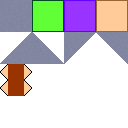
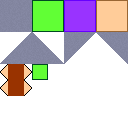
Crouching animation and collision detection added. Still need to prevent standing when it would cause a collision.

Changed region(s): [[0.25, 0.5, 0.375, 0.625]]

diff --git a/src/player.js b/src/player.js
@@ -34,11 +34,17 @@ Crafty.c("Player", {
 			.reel("PlayerFallRight", 1000, [[4, 4], [5, 4], [6, 4], [7, 4], [7, 4], [6, 4], [5, 4], [4, 4]])
 			.reel("PlayerLandLeft", 500, 0, 5, 4)
 			.reel("PlayerLandRight", 500, 4, 5, 4)
+			.reel("PlayerCrouchLeft", 1000, [[0, 6], [1, 6], [2, 6], [3, 6], [3, 6], [2, 6], [1, 6], [0, 6]])
+			.reel("PlayerCrouchRight", 1000, [[4, 6], [5, 6], [6, 6], [7, 6], [7, 6], [6, 6], [5, 6], [4, 6]])
+			.reel("PlayerCrawlLeft", 1000, 0, 7, 8)
+			.reel("PlayerCrawlRight", 1000, 0, 8, 8)
 		// Bind animations
 			.bind("Stand", function() {
+				this._setCollisionNormal();
 				this.animate(this.direction === "left" ? "PlayerStandLeft" : "PlayerStandRight", -1);
 			})
 			.bind("Walk", function(ev) {
+				this._setCollisionNormal();
 				if(this.grounded) {
 					this.animate(this.direction === "left" ? "PlayerWalkLeft" : "PlayerWalkRight", -1);
 				} else {
@@ -46,6 +52,7 @@ Crafty.c("Player", {
 				}
 			})
 			.bind("Jump", function() {
+				this._setCollisionNormal();
 				this.animate(this.direction === "left" ? "PlayerJumpLeft" : "PlayerJumpRight", 0);
 				this.timeout(function() {
 					if(!this.grounded) {
@@ -54,15 +61,29 @@ Crafty.c("Player", {
 				}, 500);
 			})
 			.bind("Fall", function() {
+				this._setCollisionNormal();
 				this.animate(this.direction === "left" ? "PlayerFallLeft" : "PlayerFallRight", -1);
 			})
 			.bind("Land", function() {
+				this._setCollisionNormal();
 				this.animate(this.direction === "left" ? "PlayerLandLeft" : "PlayerLandRight", 0);
 				this.timeout(function() {
 					if(this.grounded) {
 						this.animate(this.direction === "left" ? "PlayerStandLeft" : "PlayerStandRight", -1);
 					}
 				}, 500);
+			})
+			.bind("Crouch", function() {
+				this._setCollisionCrouch();
+				this.animate(this.direction === "left" ? "PlayerCrouchLeft" : "PlayerCrouchRight", -1);
+			})
+			.bind("Crawl", function(ev) {
+				this._setCollisionCrouch();
+				if (this.grounded) {
+					this.animate(this.direction === "left" ? "PlayerCrouchLeft" : "PlayerCrouchRight", -1);
+				} else {
+					this.animate(this.direction === "left" ? "PlayerFallLeft" : "PlayerFallRight", -1);
+				}
 			})
 		// Player attributes
 			.attr({
@@ -86,5 +107,15 @@ Crafty.c("Player", {
 		});
         
 		this.makeScrollTarget();
+	},
+	
+	_setCollisionNormal:
+	function() {
+		this.collision([0,0], [32,0], [32,32], [0,32]);
+	},
+	
+	_setCollisionCrouch:
+	function() {
+		this.collision([0,16], [32,16], [32,32], [0,32]);
 	}
 });

diff --git a/src/platform_controls.js b/src/platform_controls.js
@@ -63,9 +63,25 @@ Crafty.c("PlatformControls", {
 				} else if (ev.keyCode === Crafty.keys.RIGHT_ARROW) {
 					this.direction = "right";
 				}
-				
-				this.trigger("Walk");
+
+				if(Crafty.keydown[Crafty.keys.DOWN_ARROW]) {
+					this.trigger("Crawl");
+				} else {
+					this.trigger("Walk");
+				}
 			}
+			if(ev.keyCode == Crafty.keys.DOWN_ARROW) {
+				if(Crafty.keydown[Crafty.keys.LEFT_ARROW]
+				|| Crafty.keydown[Crafty.keys.RIGHT_ARROW]) {
+					this.trigger("Crawl");
+				}
+				else {
+					if (this.grounded) {
+						this.trigger("Crouch");
+					}
+				}
+			}
+
 			if(ev.keyCode == Crafty.keys.SPACE &&
 					Crafty("PickupState").hasPickup("pistol")) {
 				var bullet = Crafty.e("Projectile");
@@ -104,9 +120,32 @@ Crafty.c("PlatformControls", {
 			|| ev.keyCode === Crafty.keys.RIGHT_ARROW) {
 				if(Crafty.keydown[Crafty.keys.LEFT_ARROW]) {
 					this.direction = "left";
-					this.trigger("Walk");
+					if (Crafty.keydown[Crafty.keys.DOWN_ARROW]) {
+						this.trigger("Crawl");
+					} else {
+						this.trigger("Walk");
+					}
 				} else if(Crafty.keydown[Crafty.keys.RIGHT_ARROW]) {
 					this.direction = "right";
+					if (Crafty.keydown[Crafty.keys.DOWN_ARROW]) {
+						this.trigger("Crawl");
+					} else {
+						this.trigger("Walk");
+					}
+				} else {
+					if(this.grounded) {
+						if (Crafty.keydown[Crafty.keys.DOWN_ARROW]) {
+							this.trigger("Crouch");
+						} else {
+							this.trigger("Stand");
+						}
+					}
+				}
+			}
+
+			if(ev.keyCode === Crafty.keys.DOWN_ARROW) {
+				if(Crafty.keydown[Crafty.keys.LEFT_ARROW]
+				|| Crafty.keydown[Crafty.keys.RIGHT_ARROW]) {
 					this.trigger("Walk");
 				} else {
 					if(this.grounded) {
@@ -150,9 +189,17 @@ Crafty.c("PlatformControls", {
 				&& !Crafty.keydown[Crafty.keys.RIGHT_ARROW])
 				|| (Crafty.keydown[Crafty.keys.RIGHT_ARROW]
 				&& !Crafty.keydown[Crafty.keys.LEFT_ARROW])) {
-					this.trigger("Walk");
+					if (Crafty.keydown[Crafty.keys.DOWN_ARROW]) {
+						this.trigger("Crawl");
+					} else {
+						this.trigger("Walk");
+					}
 				} else {
-					this.trigger("Land");
+					if (Crafty.keydown[Crafty.keys.DOWN_ARROW]) {
+						this.trigger("Crouch");
+					} else {
+						this.trigger("Land");
+					}
 				}
 			}
 			
